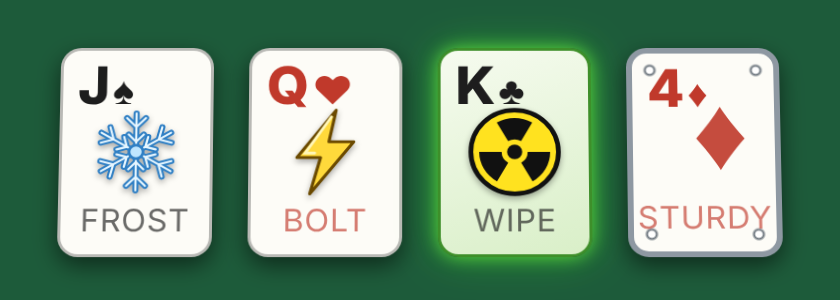
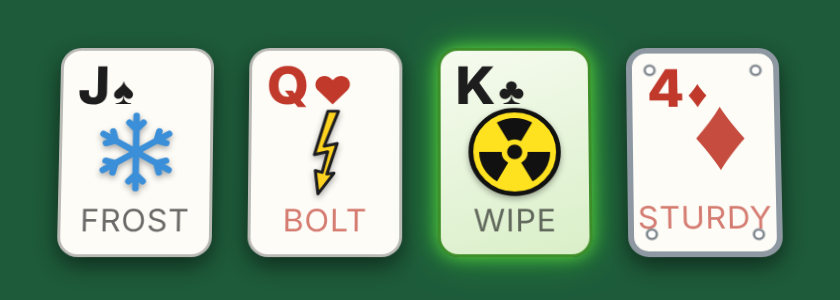
Simpler snowflake for Frost and a thin warning-sign zap for Bolt
Claude-Session: https://claude.ai/code/session_01RZQVcp2qjBMmu2NDpK7G8g

Changed region(s): [[0.0929, 0.36, 0.2167, 0.66], [0.3405, 0.36, 0.4333, 0.66]]

diff --git a/eggbog.html b/eggbog.html
@@ -2608,8 +2608,8 @@ const ART={
   A:'<svg class="art" viewBox="0 0 40 40"><circle cx="20" cy="20" r="17" fill="#2e9e5b" stroke="#145c32" stroke-width="2"/><text x="20" y="27" text-anchor="middle" font-family="system-ui,Arial,sans-serif" font-weight="900" font-size="20" fill="#fff">+1</text></svg>',
   '3':'<svg class="art" viewBox="0 0 40 40"><line x1="26" y1="26" x2="35" y2="35" stroke="#4a3320" stroke-width="5" stroke-linecap="round"/><line x1="25" y1="25" x2="28" y2="28" stroke="#b9a37a" stroke-width="4" stroke-linecap="round"/><circle cx="16" cy="16" r="11" fill="#bfe6ff" fill-opacity=".75" stroke="#3a4752" stroke-width="3.2"/><path d="M9.5 14a7 7 0 0 1 5-5" stroke="#fff" stroke-width="2" fill="none" stroke-linecap="round"/></svg>',
   '5':'<svg class="art" viewBox="0 0 40 40"><circle cx="20" cy="20" r="18" fill="#d9322b" stroke="#fff" stroke-width="2"/><circle cx="20" cy="20" r="14.5" fill="none" stroke="#fff" stroke-width="1" opacity=".6"/><g fill="#fff"><path d="M9 21 L9 25 Q9 29 14 29 L19 29 L19 33 L27 27 L19 21 L19 25 L14 25 L14 21Z" transform="rotate(180 20 20)"/><path d="M9 21 L9 25 Q9 29 14 29 L19 29 L19 33 L27 27 L19 21 L19 25 L14 25 L14 21Z"/></g></svg>',
-  J:'<svg class="art" viewBox="0 0 40 40"><g stroke-linecap="round" fill="none"><g stroke="#2f7fc4" stroke-width="2.6"><path d="M20 3V37M20 9l-4-4M20 9l4-4M20 31l-4 4M20 31l4 4M20 15.5l-3.2-3.2M20 15.5l3.2-3.2M20 24.5l-3.2 3.2M20 24.5l3.2 3.2"/><path d="M20 3V37M20 9l-4-4M20 9l4-4M20 31l-4 4M20 31l4 4M20 15.5l-3.2-3.2M20 15.5l3.2-3.2M20 24.5l-3.2 3.2M20 24.5l3.2 3.2" transform="rotate(60 20 20)"/><path d="M20 3V37M20 9l-4-4M20 9l4-4M20 31l-4 4M20 31l4 4M20 15.5l-3.2-3.2M20 15.5l3.2-3.2M20 24.5l-3.2 3.2M20 24.5l3.2 3.2" transform="rotate(120 20 20)"/></g><g stroke="#e6f6ff" stroke-width=".9"><path d="M20 3V37M20 9l-4-4M20 9l4-4M20 31l-4 4M20 31l4 4M20 15.5l-3.2-3.2M20 15.5l3.2-3.2M20 24.5l-3.2 3.2M20 24.5l3.2 3.2"/><path d="M20 3V37M20 9l-4-4M20 9l4-4M20 31l-4 4M20 31l4 4M20 15.5l-3.2-3.2M20 15.5l3.2-3.2M20 24.5l-3.2 3.2M20 24.5l3.2 3.2" transform="rotate(60 20 20)"/><path d="M20 3V37M20 9l-4-4M20 9l4-4M20 31l-4 4M20 31l4 4M20 15.5l-3.2-3.2M20 15.5l3.2-3.2M20 24.5l-3.2 3.2M20 24.5l3.2 3.2" transform="rotate(120 20 20)"/></g></g><circle cx="20" cy="20" r="3" fill="#bfe6ff" stroke="#2f7fc4" stroke-width="1.2"/></svg>',
-  Q:'<svg class="art" viewBox="0 0 40 40"><path d="M24.5 1.5L8 22.5h10l-4.5 16L32 15.5H21.5z" fill="#ffd93b" stroke="#6b4a00" stroke-width="1.3" stroke-linejoin="round"/><path d="M22.5 4.5L11.5 20.5h4" stroke="#fff6b8" stroke-width="1.2" fill="none" stroke-linecap="round"/></svg>',
+  J:'<svg class="art" viewBox="0 0 40 40"><g stroke="#3a8fd8" stroke-width="2.8" stroke-linecap="round" stroke-linejoin="round" fill="none"><path d="M20 4V36M17 7l3 3 3-3M17 33l3-3 3 3"/><path d="M20 4V36M17 7l3 3 3-3M17 33l3-3 3 3" transform="rotate(60 20 20)"/><path d="M20 4V36M17 7l3 3 3-3M17 33l3-3 3 3" transform="rotate(120 20 20)"/></g></svg>',
+  Q:'<svg class="art" viewBox="0 0 40 40"><path d="M21 2h4.5l-6 15.5 5.5-1.2-4.3 13.5 3-.4L17 38.5l-1.2-10.3 2.9.9 2.3-9.2-5.6 1.3z" fill="#ffd21f" stroke="#1d1d1f" stroke-width="1.3" stroke-linejoin="round"/></svg>',
   X:'<svg class="art" viewBox="0 0 40 40"><defs><linearGradient id="jkg" x1="0" y1="0" x2="1" y2="1"><stop offset="0" stop-color="#ff6bd6"/><stop offset=".35" stop-color="#6bd6ff"/><stop offset=".7" stop-color="#8dff8d"/><stop offset="1" stop-color="#ffe86b"/></linearGradient></defs><path d="M20 2 L24.5 14 L37.5 14.5 L27.3 22.5 L30.8 35.5 L20 28 L9.2 35.5 L12.7 22.5 L2.5 14.5 L15.5 14 Z" fill="url(#jkg)" stroke="#4b2a7a" stroke-width="1.8" stroke-linejoin="round"/><path d="M20 8 L22 15 M20 8 L18 15" stroke="#fff" stroke-width="1.4" stroke-linecap="round" opacity=".8"/></svg>',
   K:`<svg class="art" viewBox="0 0 40 40"><circle cx="20" cy="20" r="18.5" fill="#ffe21f" stroke="#111" stroke-width="2"/>${TREFOIL}</svg>`
 };
